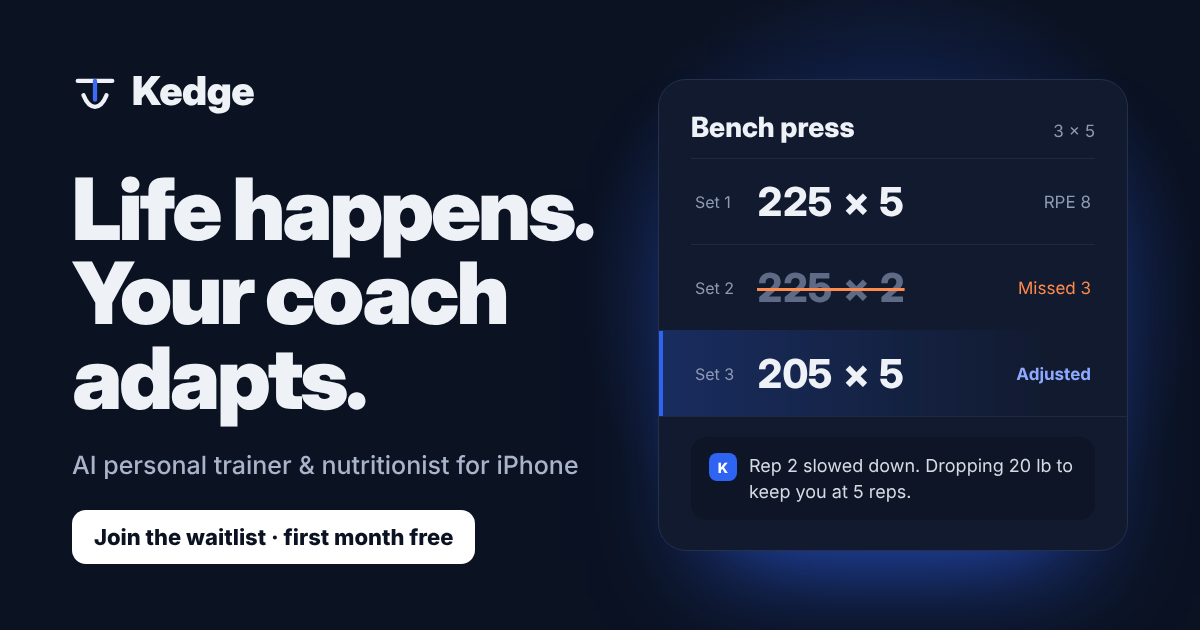
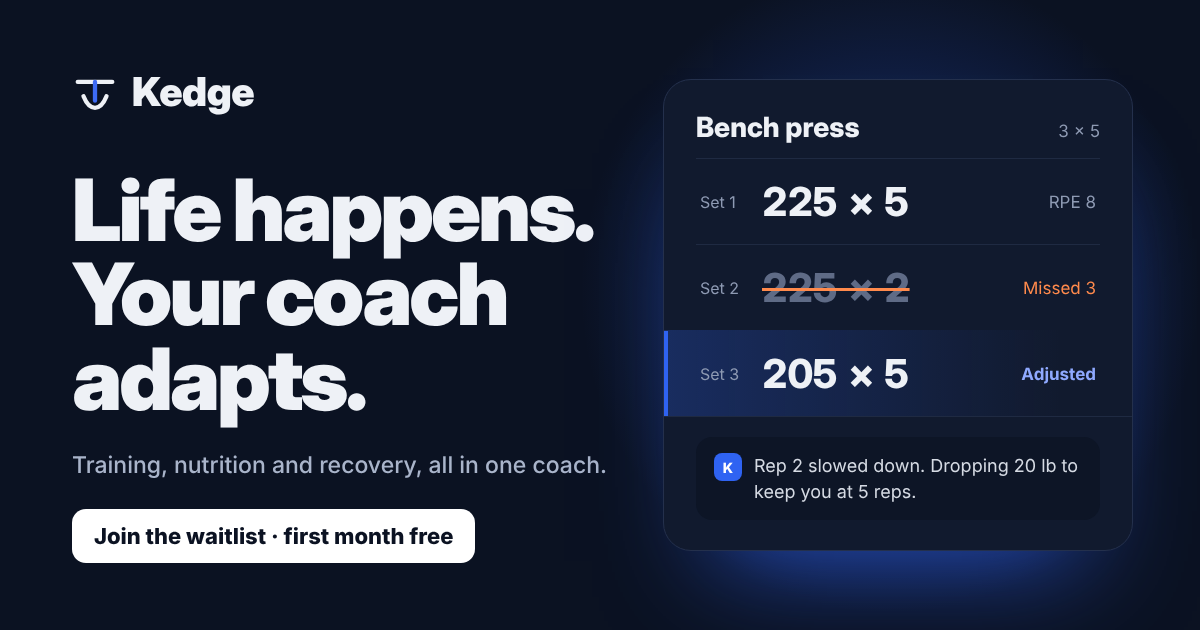
Preview copy: training, nutrition and recovery, all in one coach
Claude-Session: https://claude.ai/code/session_01EUkb72grH862t5WVJzSN1Z

diff --git a/index.html b/index.html
@@ -4,7 +4,7 @@
 <meta charset="utf-8">
 <meta name="viewport" content="width=device-width, initial-scale=1">
 <title>Kedge: Your Training Partner</title>
-<meta name="description" content="Kedge is an AI personal trainer and nutritionist for iPhone. It plans every workout, adjusts your next set live, reviews your form on video and logs meals from a photo.">
+<meta name="description" content="Training, nutrition and recovery, all in one coach. Kedge plans every workout, adjusts your next set live, reviews your form on video and logs meals from a photo.">
 <meta name="theme-color" content="#0B1222">
 <link rel="icon" href="/favicon.svg" type="image/svg+xml">
 <link rel="apple-touch-icon" href="/apple-touch-icon.png">
@@ -13,15 +13,15 @@
 <meta property="og:site_name" content="Kedge">
 <meta property="og:url" content="https://kedge.fit/">
 <meta property="og:title" content="Kedge: Your Training Partner">
-<meta property="og:description" content="An AI personal trainer and nutritionist that adapts to everything life throws at you. Join the waitlist and get your first month free.">
-<meta property="og:image" content="https://kedge.fit/og.png">
+<meta property="og:description" content="Training, nutrition and recovery, all in one coach. Join the waitlist and get your first month free.">
+<meta property="og:image" content="https://kedge.fit/og.png?v=2">
 <meta property="og:image:width" content="1200">
 <meta property="og:image:height" content="630">
 <meta property="og:image:alt" content="Kedge: Life happens. Your coach adapts. A bench press set adjusting from 225 to 205 after missed reps.">
 <meta name="twitter:card" content="summary_large_image">
 <meta name="twitter:title" content="Kedge: Your Training Partner">
-<meta name="twitter:description" content="An AI personal trainer and nutritionist that adapts to everything life throws at you. Join the waitlist and get your first month free.">
-<meta name="twitter:image" content="https://kedge.fit/og.png">
+<meta name="twitter:description" content="Training, nutrition and recovery, all in one coach. Join the waitlist and get your first month free.">
+<meta name="twitter:image" content="https://kedge.fit/og.png?v=2">
 <link rel="preconnect" href="https://fonts.googleapis.com">
 <link rel="preconnect" href="https://fonts.gstatic.com" crossorigin>
 <link rel="stylesheet" href="https://fonts.googleapis.com/css2?family=Archivo:wdth,wght@62..125,100..900&amp;display=swap">

diff --git a/src/template.html b/src/template.html
@@ -4,7 +4,7 @@
 <meta charset="utf-8">
 <meta name="viewport" content="width=device-width, initial-scale=1">
 <title>Kedge: Your Training Partner</title>
-<meta name="description" content="Kedge is an AI personal trainer and nutritionist for iPhone. It plans every workout, adjusts your next set live, reviews your form on video and logs meals from a photo.">
+<meta name="description" content="Training, nutrition and recovery, all in one coach. Kedge plans every workout, adjusts your next set live, reviews your form on video and logs meals from a photo.">
 <meta name="theme-color" content="#0B1222">
 <link rel="icon" href="/favicon.svg" type="image/svg+xml">
 <link rel="apple-touch-icon" href="/apple-touch-icon.png">
@@ -13,15 +13,15 @@
 <meta property="og:site_name" content="Kedge">
 <meta property="og:url" content="https://kedge.fit/">
 <meta property="og:title" content="Kedge: Your Training Partner">
-<meta property="og:description" content="An AI personal trainer and nutritionist that adapts to everything life throws at you. Join the waitlist and get your first month free.">
-<meta property="og:image" content="https://kedge.fit/og.png">
+<meta property="og:description" content="Training, nutrition and recovery, all in one coach. Join the waitlist and get your first month free.">
+<meta property="og:image" content="https://kedge.fit/og.png?v=2">
 <meta property="og:image:width" content="1200">
 <meta property="og:image:height" content="630">
 <meta property="og:image:alt" content="Kedge: Life happens. Your coach adapts. A bench press set adjusting from 225 to 205 after missed reps.">
 <meta name="twitter:card" content="summary_large_image">
 <meta name="twitter:title" content="Kedge: Your Training Partner">
-<meta name="twitter:description" content="An AI personal trainer and nutritionist that adapts to everything life throws at you. Join the waitlist and get your first month free.">
-<meta name="twitter:image" content="https://kedge.fit/og.png">
+<meta name="twitter:description" content="Training, nutrition and recovery, all in one coach. Join the waitlist and get your first month free.">
+<meta name="twitter:image" content="https://kedge.fit/og.png?v=2">
 <link rel="preconnect" href="https://fonts.googleapis.com">
 <link rel="preconnect" href="https://fonts.gstatic.com" crossorigin>
 <link rel="stylesheet" href="https://fonts.googleapis.com/css2?family=Archivo:wdth,wght@62..125,100..900&amp;display=swap">

diff --git a/src/og.html b/src/og.html
@@ -10,7 +10,7 @@ body::before { content: ""; position: absolute; right: -120px; top: -160px; widt
 .mark { display: flex; align-items: center; gap: 14px; font-family: "Inter Display"; font-weight: 900; font-size: 40px; letter-spacing: -0.01em; }
 .mark svg { width: 46px; height: 46px; }
 h1 { margin-top: 52px; font-family: "Inter Display"; font-weight: 900; font-size: 86px; line-height: 0.98; letter-spacing: -0.035em; }
-.sub { margin-top: 30px; font-size: 25px; color: #A9B4CA; font-weight: 500; }
+.sub { margin-top: 30px; font-size: 23px; white-space: nowrap; color: #A9B4CA; font-weight: 500; }
 .pill { display: inline-block; margin-top: 30px; padding: 14px 22px; border-radius: 14px; background: #fff; color: #0B1222; font-weight: 800; font-size: 22px; }
 .card { background: #111A2E; border: 1px solid #24304C; border-radius: 28px; padding: 30px 32px; box-shadow: 0 60px 100px -50px rgba(47,99,242,.7); }
 .row { display: flex; justify-content: space-between; align-items: baseline; }
@@ -36,7 +36,7 @@ h1 { margin-top: 52px; font-family: "Inter Display"; font-weight: 900; font-size
       Kedge
     </div>
     <h1>Life happens.<br>Your coach adapts.</h1>
-    <p class="sub">AI personal trainer &amp; nutritionist for iPhone</p>
+    <p class="sub">Training, nutrition and recovery, all in one coach.</p>
     <span class="pill">Join the waitlist · first month free</span>
   </div>
   <div class="card">
